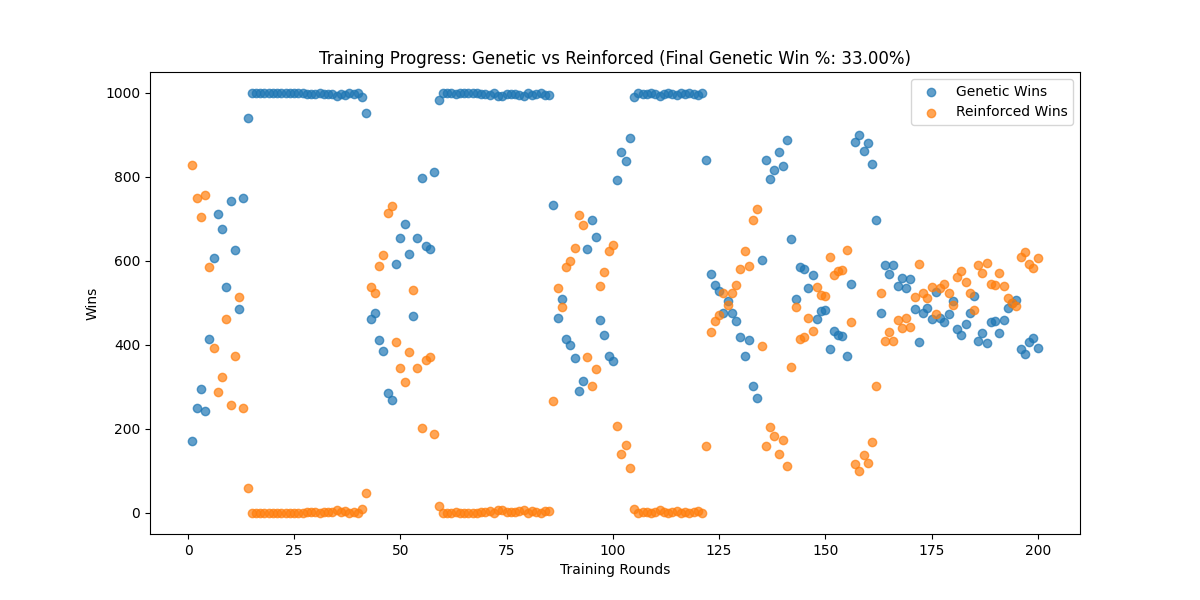
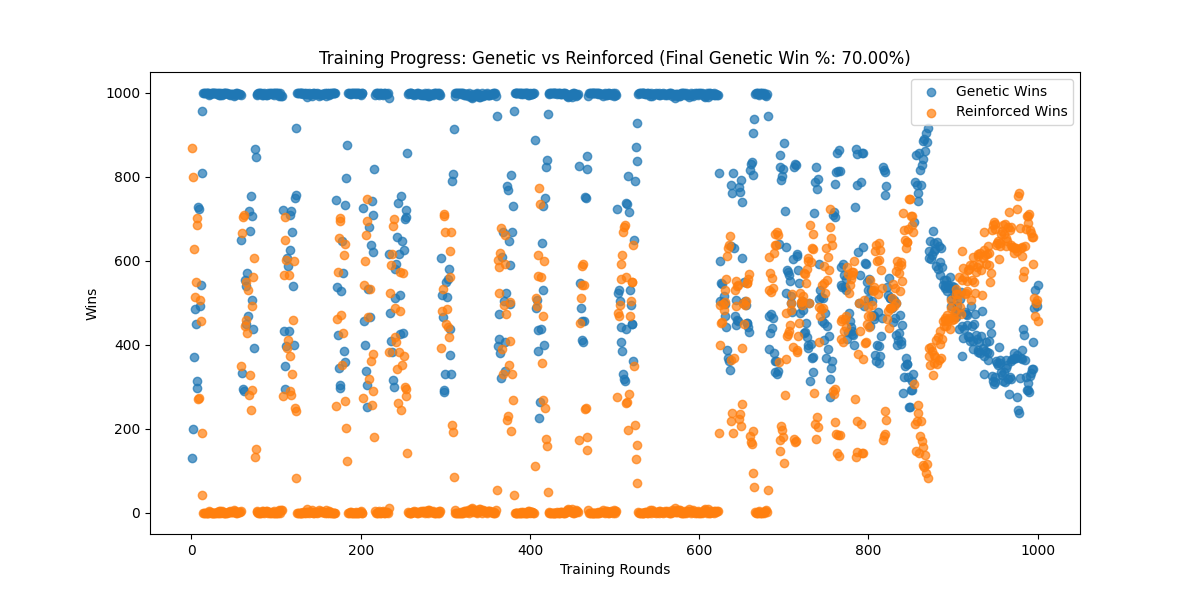
Fun! After a larger simulation, you can see that the pattern of supremacy keeps flipping

diff --git a/container/main.py b/container/main.py
@@ -81,41 +81,11 @@ def plot_training_results(
     sample_indices = np.random.choice(len(left_wins), num_samples, replace=False)
     sample_indices.sort()  # Sort indices to maintain chronological order
 
-    if len(left_wins) > 250:
-        # Create binned data
-        num_bins = min(100, len(left_wins))
-        bin_size = len(left_wins) // num_bins
-        binned_left_wins = []
-        binned_right_wins = []
-        binned_rounds = []
-
-        for i in range(0, len(left_wins), bin_size):
-            bin_end = min(i + bin_size, len(left_wins))
-            binned_left_wins.append(sum(left_wins[i:bin_end]))
-            binned_right_wins.append(sum(right_wins[i:bin_end]))
-            binned_rounds.append(rounds[i])
-
-        plt.figure(figsize=(12, 6))
-        plt.scatter(
-            binned_rounds,
-            binned_left_wins,
-            label=f"{left_player.capitalize()} Wins",
-            alpha=0.7,
-        )
-        plt.scatter(
-            binned_rounds,
-            binned_right_wins,
-            label=f"{right_player.capitalize()} Wins",
-            alpha=0.7,
-        )
-    else:
-        plt.figure(figsize=(12, 6))
-        plt.scatter(
-            rounds, left_wins, label=f"{left_player.capitalize()} Wins", alpha=0.7
-        )
-        plt.scatter(
-            rounds, right_wins, label=f"{right_player.capitalize()} Wins", alpha=0.7
-        )
+    plt.figure(figsize=(12, 6))
+    plt.scatter(rounds, left_wins, label=f"{left_player.capitalize()} Wins", alpha=0.7)
+    plt.scatter(
+        rounds, right_wins, label=f"{right_player.capitalize()} Wins", alpha=0.7
+    )
 
     plt.title(
         f"Training Progress: {left_player.capitalize()} vs {right_player.capitalize()} (Final {left_player.capitalize()} Win %: {final_left_win_percentage:.2f}%)"

diff --git a/container/README.md b/container/README.md
@@ -49,7 +49,7 @@ These genetic operations allow the `GeneticPlayer` to adapt and refine its strat
 
 To compare the performance of the Genetic and Reinforced players, you can run a battle between them using the following command:
 
-    poetry run python main.py --left-player genetic --right-player reinforced --num-matches 100 --num-training-rounds 20000 --train
+    poetry run python main.py --left-player genetic --right-player reinforced --num-matches 100 --num-training-rounds 2000000 --train
 
 This will train both players for 10,000 rounds and then play 1,000 matches between them. The results will show the win percentage for each player, allowing you to compare their effectiveness.
 
